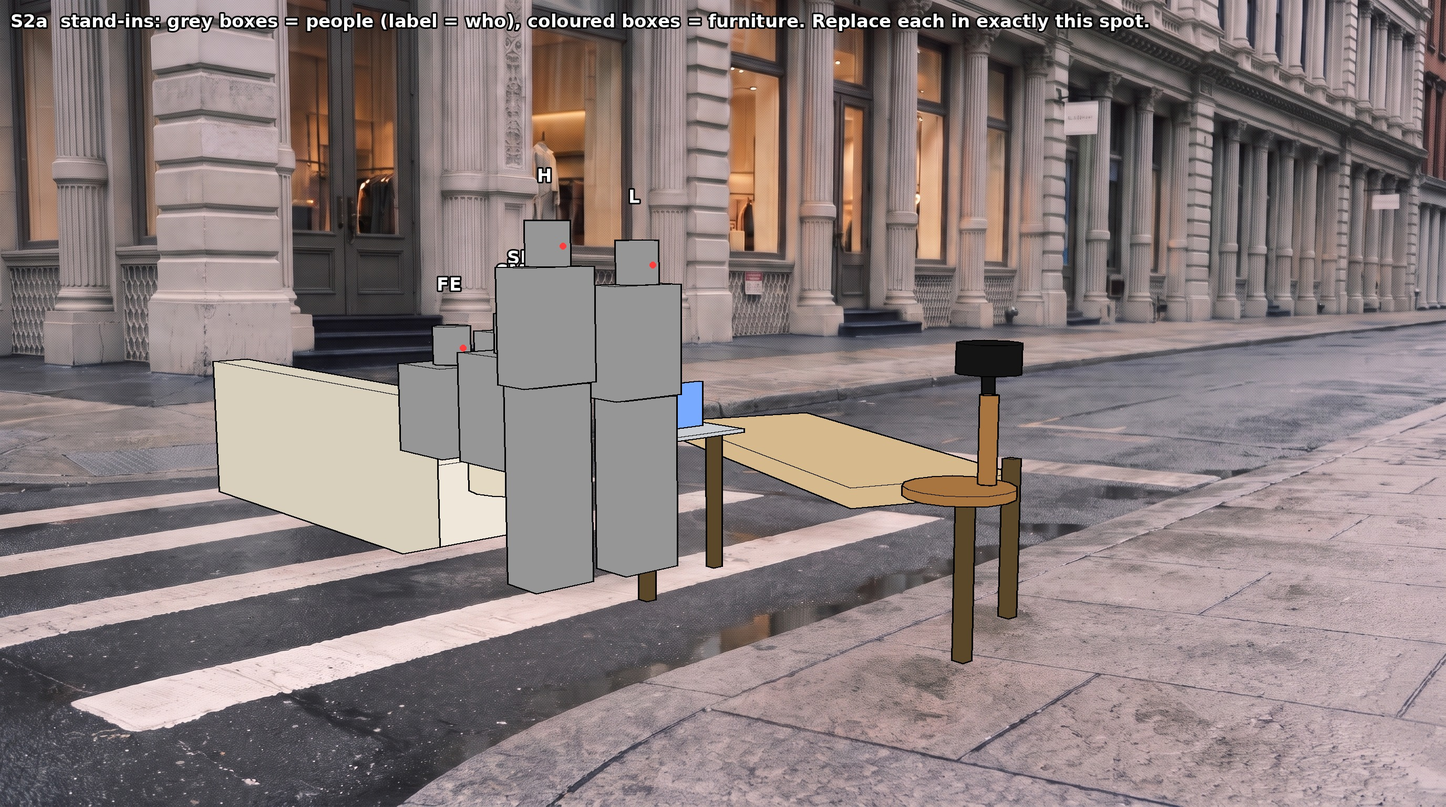
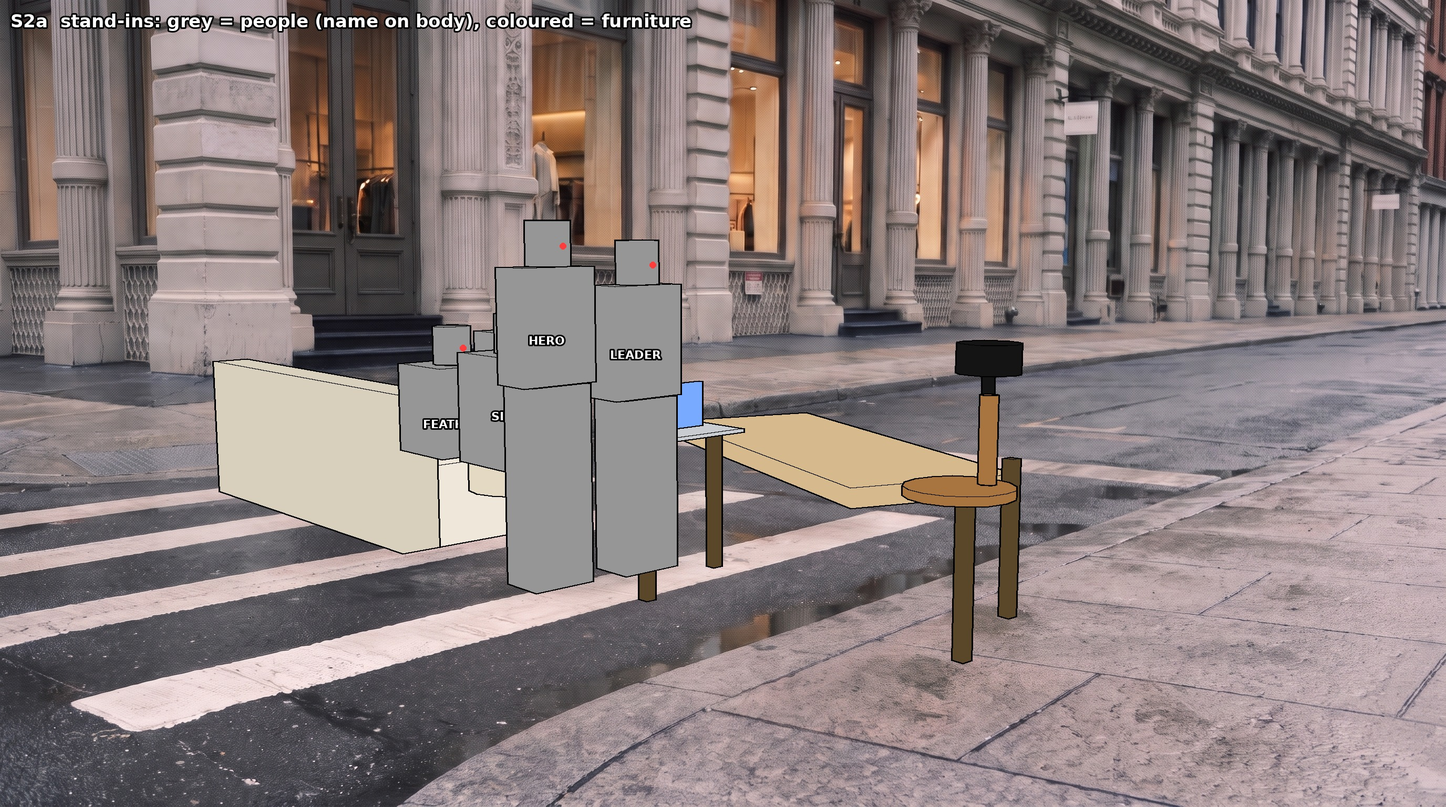
previz stand-ins for S1a S1b S2a S2b S3a S3b S4 (names on bodies)
Claude-Session: https://claude.ai/code/session_01UrVJCYAfMmjv3QQnRf3jKV

diff --git a/prompts/make_previz.py b/prompts/make_previz.py
@@ -1,0 +1,17 @@
+import sys; sys.path.insert(0,'/home/claude')
+import previz as pv, shotdiagrams as sd
+from PIL import Image, ImageDraw
+beats={b[0]:b for b in sd.SHOTS}; W,H=2752,1536; P=sd.P; FE=sd.FE_home; SM=sd.SM_home; SL=sd.SL_home
+out='/home/claude/treg-ugc-assets/blocking/previz/'
+def pxy(X,Y,Z): return pv.px(pv.PLATE_CAM,X,Y,Z,W,H)
+for k in ['S1a','S1b','S2a','S3a']:
+    pv.render(beats[k][3], out=out+f'{k}.jpg', label=f'{k}  stand-ins: grey = people (name on body), coloured = furniture')
+def crop_render(people, centre, wf, name, label):
+    im=pv.render(people); cx,cy=centre; w=int(W*wf); h=int(w*9/16)
+    x0=int(min(max(cx-w/2,0),W-w)); y0=int(min(max(cy-h/2,0),H-h))
+    c=im.crop((x0,y0,x0+w,y0+h)).resize((W,H),Image.LANCZOS)
+    ImageDraw.Draw(c).text((20,20),label,fill='white',font=pv.FONT,stroke_width=3,stroke_fill='black'); c.save(out+name,quality=92)
+Lh=pxy(1.45,-3.45,1.55); Hh=pxy(0.95,-3.4,1.6)
+crop_render([P("L",1.45,-3.45,"stand",270),P("H",0.95,-3.4,"stand",270),FE,SM,SL],(Lh[0],Lh[1]+210),0.30,'S2b.jpg','S2b  push-in on LEADER')
+crop_render([P("L",1.45,-3.45,"stand",230),P("H",0.95,-3.4,"stand",270),FE,SM,SL],((Lh[0]+Hh[0])/2,Hh[1]+260),0.42,'S3b.jpg','S3b  tighter: HERO talking, LEADER watching')
+crop_render([P("L",1.45,-3.45,"stand",270),P("H",0.95,-3.4,"stand",300),FE,SM,SL],(Lh[0],Lh[1]+230),0.34,'S4.jpg','S4  close on LEADER, head turned')

diff --git a/prompts/previz.py b/prompts/previz.py
@@ -8,6 +8,7 @@ import shotdiagrams as sd
 
 PLATE = '/home/claude/treg-ugc-assets/plates/scene_empty.jpg'
 FONT = ImageFont.truetype('/usr/share/fonts/truetype/dejavu/DejaVuSans-Bold.ttf', 34)
+FONT_S = ImageFont.truetype('/usr/share/fonts/truetype/dejavu/DejaVuSans-Bold.ttf', 22)
 
 def mk(cx, cy, cz, yawdeg, pitch):
     y = math.radians(yawdeg)
@@ -75,9 +76,10 @@ def draw_person(draw, cam, p, W, H):
     # nose marker to show facing
     npt = px(cam, x + fx*0.14, y + fy*0.14, head_z0 + 0.1, W, H)
     if npt: draw.ellipse([npt[0]-6, npt[1]-6, npt[0]+6, npt[1]+6], fill=(255, 60, 60))
-    top = px(cam, x, y, head_z0 + 0.3, W, H)
-    if top:
-        draw.text((top[0], top[1] - 40), k, fill='white', font=FONT, anchor='ms', stroke_width=3, stroke_fill='black')
+    mid = px(cam, x, y, head_z0 - 0.35, W, H)
+    if mid:
+        name = {'L': 'LEADER', 'H': 'HERO', 'FE': 'FEATHER', 'SM': 'SILVER', 'SL': 'SLICKED'}[k]
+        draw.text(mid, name, fill='white', font=FONT_S, anchor='mm', stroke_width=3, stroke_fill='black')
 
 def render(people, cam=None, out=None, label=''):
     cam = cam or PLATE_CAM
